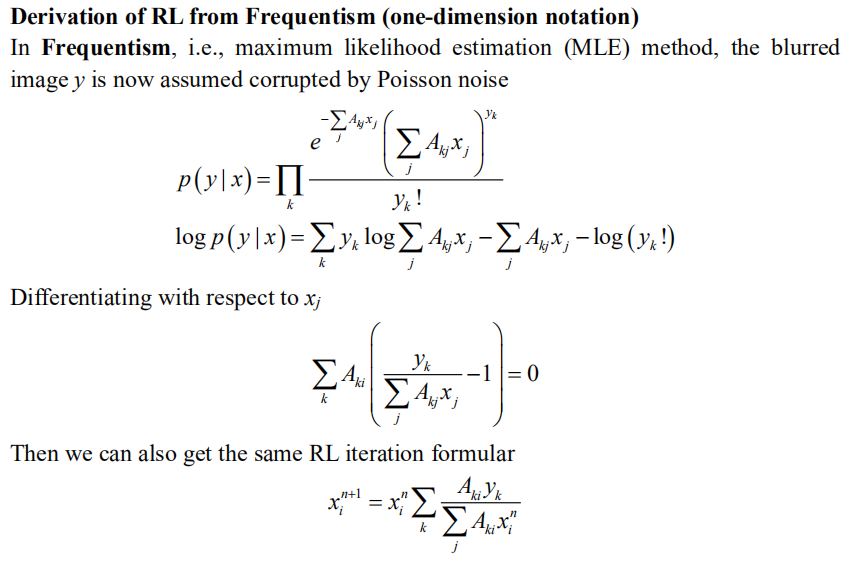
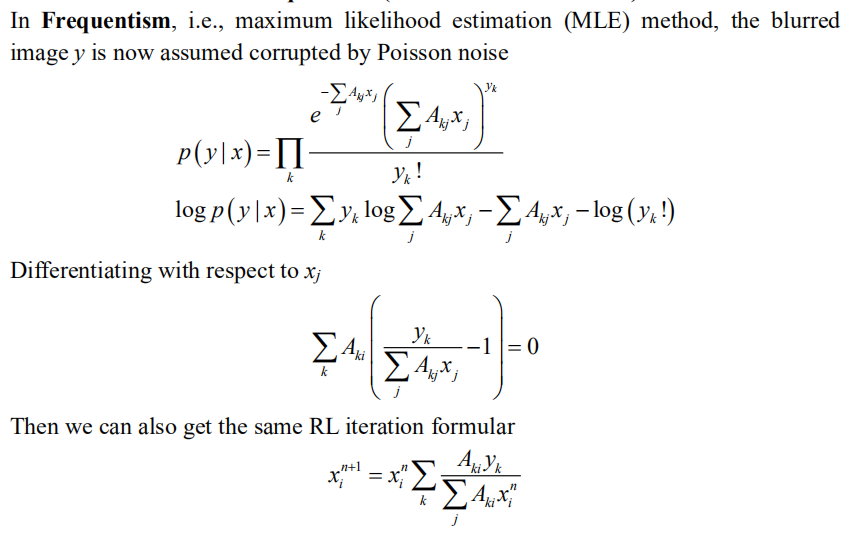
blog initial

diff --git a/README.md b/README.md
@@ -1,29 +1,42 @@
-Inspired by Andrew, I open a GitHub page to have an open discussion on the deconvolution topic, all opinions are my own and may not be right. Please just leave a message on Twitter/GitHub-issue if you are interested. 
+Inspired by Andrew, I open a GitHub page to have an open discussion on the deconvolution topic, all opinions are my own and may not be right.<br>
+ Please just leave a message on [Twitter](https://twitter.com/weisong_zhao)/[GitHub-issue](https://github.com/WeisongZhao/rl_positivity_sim/issues/new) if you are interested. 
 
 ## Inverse problem
 
-First, I intend to talk about a little background of the inverse problem and deconvolution.
+First, I intend to talk about a little background of the `inverse problem` and `deconvolution`.
 
-To me, the deconvolution is actually a classical machine learning method but not an optics method, that estimate the hidden parameter (real signal) from the measured parameter (camera image). 
-
-
-<h4 align="center">Sparse-SIM
-Ax = y. It is an inverse problem if without noise.<br><br>
-Ax + n = y. It is an ill-posed inverse problem if with noise</h4>
+To me, the `deconvolution` is actually a `classical machine learning` method but not an `optics method`, that estimate the hidden parameter (real signal) from the measured parameter (camera image). 
 
 
-What we're doing is trying to estimate the maximum possible x from the observed data y. If the A is a gaussian function, point source, and in noise-free condition, so the x and y are one–to–one correspondence.
+<h4 align="center"> Ax = y. It is an inverse problem if without noise.<br><br>Ax + n = y. It is an ill-posed inverse problem if with noise</h4>
 
-In the machine learning or convex optimization field, 
 
-We always start by asking ourselves, is this problem convex, is there a global optimal value. If there is no noise, then x and y can be one–to–one correspondence. No matter what method we use, we just need to find Ax that is absolutely equal to y. 
+What we're doing is trying to estimate the maximum possible `x` from the observed data `y`. If the `A` is a gaussian function, point source, and in noise-free condition, so the `x` and y are one–to–one correspondence.
 
-There are many solutions, including the Bayesian-based Richardson-Lucy deconvolution, which will be discussed below. If the computing power is sufficient, even particle swarm (PSO) or genetic algorithm (GA) are effective choices. We can define the x is the parameters to be optimized for GA/PSO, and the optimization will stop when find x for Ax – y = 0.
+In the machine learning or convex optimization field, we always start by asking ourselves, is this problem convex, is there a global optimal value. If there is no noise, then the `x` and `y` can be **one–to–one correspondence**. No matter what method we use, we just need to find `Ax` that is absolutely equal to `y`. 
+
+There are many solutions, including the Bayesian-based Richardson-Lucy deconvolution, which will be discussed below. If the computing power is sufficient, even **particle swarm (PSO)** or **genetic algorithm (GA)** are effective choices. We can define the x is the parameters to be optimized for GA/PSO, and the optimization will stop when find `x` for `Ax – y = 0`.
 
 ## Frequentism and Bayesianism for the Richardson-Lucy (RL) deconvolution
 
-Lucy's RL article is the very first successful try on machine learning applying to the optical imaging. However, the logic used in the Lucy's article is very flexible, so it can be a little misleading in many cases. What I intend to do in this section is to give a small insight that RL is a branch of classical machine learning.
+Lucy's RL article is the very first successful try on machine learning applying to the optical imaging. However, the logic used in the Lucy's article is very flexible, so it can be a little misleading in some cases. 
 
-The history of RL is very interesting. In fact, for centuries, the Frequentism and the Bayesianism have been at odds, and that seems to echo the debate that we have today about the applications of the machine learning on the optical imaging.
+What I intend to do in this section is to give a small insight that RL is a branch of classical machine learning.
 
-To summarize the differences: Frequentism considers probabilities to be related to frequencies of real or hypothetical events. Bayesianism considers probabilities to measure degrees of knowledge. Frequentist analyses generally proceed through use of point estimates and **maximum likelihood** approaches. That talk about the RL to show that difference in specific.
+The history of RL is very interesting. In fact, for centuries, the **Frequentism** and the **Bayesianism** have been at odds, and that seems to echo the debate that we have today about the applications of the machine learning on the optical imaging.
+
+To summarize the differences: **Frequentism** considers probabilities to be related to frequencies of real or hypothetical events. **Bayesianism** considers probabilities to measure degrees of knowledge. **Frequentist** analyses generally proceed through use of point estimates and **maximum likelihood** approaches. 
+
+That talk about the RL to show that difference in specific.
+
+### Derivation of RL from Bayesianism (one-dimension notation)
+
+<p align="center">
+<img src='./IMG/RL-Bayesian.png' width=750>
+</p>
+
+### Derivation of RL from Frequentism (one-dimension notation)
+
+<p align="center">
+<img src='./IMG/RL-Frequentism.png' width=750>
+</p>
